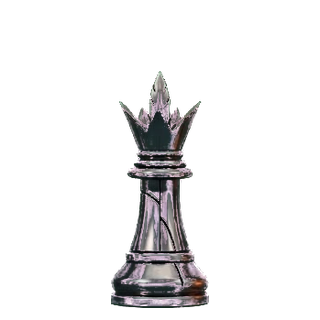
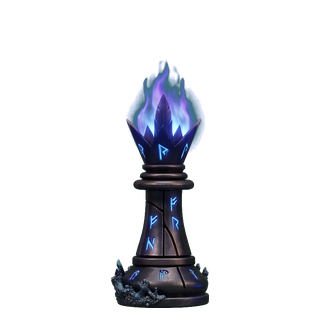
Black gets its own design: steel, runes, cold fire
The black pieces come from a separate sheet and are no longer the copper set
in another colour. Warm flame against cold violet, which is a stronger reading
of two sides than light wood against dark wood ever was.

That separation is what the cutter had to learn. It now takes one sheet at a
time and is told what each row is -- `w`, `b`, or skip -- because this sheet
offers two alternative designs and only the second is wanted. And it is told
how tall that row's tallest piece should end up, rather than deriving it:
with the sides coming from different images, nothing inside either one can
say how big it should be relative to the other. White fills the square at 296,
black stands at 266.

The background colour is now read off the sheet's own corners instead of being
written down. The two sheets came back on different greens -- (50,90,63) and
(59,115,75) -- and a hard-coded value keys out nothing at all, which produces
twelve opaque squares that look perfectly fine until they reach a board.

One thing left as drawn and worth knowing: the black pawn is half its king
where white's is three quarters of its own. The sheets disagree there and the
disagreement is visible on the board.

The white sheet is still the 1024-wide JPEG and is being enlarged into place
while black is being reduced. White is the softer of the two now, and
regenerating it at the black sheet's size is the outstanding job.

Claude-Session: https://claude.ai/code/session_01LiXZnuzu6WQwHSooUohDJq

Changed region(s): [[0.3438, 0.1875, 0.6562, 0.9688]]

diff --git a/assets/board/recorta_pecas.py b/assets/board/recorta_pecas.py
@@ -1,94 +1,143 @@
 #!/usr/bin/env python3
-"""Cut the twelve pieces out of the generated sheet, onto transparent squares.
+"""Cut chess pieces out of a generated sheet, onto transparent squares.
 
-The sheet is a single image: two rows of six on a flat green, with a caption
-under each. What comes out is what the board actually loads -- 320x320 RGBA,
+A sheet is one image: rows of six pieces on a flat colour, in the order
+K Q R B N P. What comes out is what the board actually loads -- 320x320 RGBA,
 one file per piece.
+
+    python3 recorta_pecas.py <folha> <destino> <bandas> [altura_max]
+
+`bandas` says what each row of the sheet is, top to bottom, comma separated:
+`w` white, `b` black, `-` skip. So `w,b` takes both rows of one sheet, and
+`-,b` takes only the second row and leaves the first alone -- which is what a
+sheet offering two alternatives needs.
+
+`altura_max` is how tall the tallest piece of that row ends up, in pixels of
+the 320 canvas. It is given rather than derived because the two sides can come
+from DIFFERENT sheets, and then nothing inside one sheet can say how big it
+should be relative to the other. White fills the square at 296; black is
+deliberately smaller, at 266.
 """
 from PIL import Image
 import numpy as np
-import sys, os
+import sys
+import os
 
-ORIGEM = sys.argv[1] if len(sys.argv) > 1 else 'pecas_src.jpeg'
-DESTINO = sys.argv[2] if len(sys.argv) > 2 else 'pecas_novas'
-os.makedirs(DESTINO, exist_ok=True)
-
-a = np.asarray(Image.open(ORIGEM).convert('RGB')).astype(np.float32)
-FUNDO = np.array([50.0, 90.0, 63.0])
-
-# Um pixel de borda e' a peca misturada com o verde do fundo. A cobertura sai da
-# distancia a essa cor, e a cor tem de ser DESMISTURADA a seguir -- sem isso
-# cada peca fica com uma auréola esverdeada assim que assentar num tabuleiro,
-# que e' precisamente onde vai assentar.
-dist = np.linalg.norm(a - FUNDO[None, None, :], axis=2)
-alpha = np.clip((dist - 18.0) / 34.0, 0, 1)
-alpha[alpha < 0.10] = 0.0
-seguro = np.maximum(alpha, 0.03)[:, :, None]
-puro = np.clip((a - FUNDO[None, None, :] * (1 - alpha[:, :, None])) / seguro, 0, 255)
-rgba = np.dstack([puro, alpha * 255]).astype(np.uint8)
-
-# Bandas MEDIDAS do perfil de linhas com conteudo, nao adivinhadas. As chamas
-# sobem muito acima do corpo: um recorte apertado corta-as, e um rei sem coroa
-# so' se ve depois de estar publicado.
 NOMES = ["K", "Q", "R", "B", "N", "P"]
-FILAS = {"w": (115, 340), "b": (400, 700)}
+LADO = 320
+MARGEM = 12
 
-m = alpha > 0.35
-def colunas(y0, y1):
+
+def carrega(caminho):
+    """The sheet, and the background colour read off its own corners.
+
+    Measured, not written down: two sheets from the same generator came back
+    on different greens -- (50,90,63) and (59,117,76) -- and a hard-coded
+    colour keys out nothing at all, producing twelve opaque squares that look
+    fine until they reach a board.
+    """
+    a = np.asarray(Image.open(caminho).convert("RGB")).astype(np.float32)
+    cantos = [a[3, 3], a[3, -4], a[-4, 3], a[-4, -4]]
+    return a, np.median(np.stack(cantos), axis=0)
+
+
+def alfa(a, fundo):
+    """Coverage per pixel, with the background un-mixed out of the edges.
+
+    An edge pixel is the piece blended with the sheet behind it. Recovering
+    coverage is the easy half; un-mixing the colour is the half that matters,
+    because an edge left part-background wears a halo of that background the
+    moment it lands on a board -- which is exactly where it lands.
+    """
+    dist = np.linalg.norm(a - fundo[None, None, :], axis=2)
+    al = np.clip((dist - 18.0) / 34.0, 0, 1)
+    al[al < 0.10] = 0.0
+    seguro = np.maximum(al, 0.03)[:, :, None]
+    puro = np.clip((a - fundo[None, None, :] * (1 - al[:, :, None])) / seguro, 0, 255)
+    return al, np.dstack([puro, al * 255]).astype(np.uint8)
+
+
+def bandas_de(m, minimo=40):
+    """Rows holding pieces, found from the sheet's own row profile.
+
+    Measured rather than guessed. Flames and crests rise well above the
+    bodies, hand-written bands came out fifteen pixels too tight, and a
+    beheaded king is the kind of thing only visible once it is published.
+    """
+    linhas = m.sum(axis=1)
+    bs, ini = [], None
+    for y, v in enumerate(linhas):
+        if v > 3 and ini is None:
+            ini = y
+        elif v <= 3 and ini is not None:
+            if y - ini > minimo:
+                bs.append((ini, y))
+            ini = None
+    if ini is not None and len(linhas) - ini > minimo:
+        bs.append((ini, len(linhas)))
+    return bs
+
+
+def colunas_de(m, y0, y1):
     col = m[y0:y1].sum(axis=0)
     gs, ini = [], None
     for x, v in enumerate(col):
-        if v > 3 and ini is None: ini = x
+        if v > 3 and ini is None:
+            ini = x
         elif v <= 3 and ini is not None:
-            if x - ini > 30: gs.append((ini, x))
+            if x - ini > 30:
+                gs.append((ini, x))
             ini = None
-    if ini is not None: gs.append((ini, len(col)))
+    if ini is not None:
+        gs.append((ini, len(col)))
     return gs
 
-rec = {}
-for cor, (y0, y1) in FILAS.items():
-    gs = colunas(y0, y1)
-    if len(gs) != 6:
-        raise SystemExit(f"fila {cor}: encontrei {len(gs)} pecas, esperava 6")
-    for i, (x0, x1) in enumerate(gs):
-        sub = rgba[y0:y1, x0:x1]
-        ys, xs = np.nonzero(sub[:, :, 3] > 20)
-        rec[cor + NOMES[i]] = Image.fromarray(
-            sub[ys.min():ys.max() + 1, xs.min():xs.max() + 1], 'RGBA')
 
-LADO, MARGEM = 320, 12
-alvo = LADO - 2 * MARGEM
+def main():
+    if len(sys.argv) < 4:
+        raise SystemExit(__doc__)
+    folha, destino, spec = sys.argv[1], sys.argv[2], sys.argv[3].split(",")
+    alvo = int(sys.argv[4]) if len(sys.argv) > 4 else LADO - 2 * MARGEM
+    os.makedirs(destino, exist_ok=True)
 
-# Uma escala por LADO, e as brancas mandam.
-#
-# As brancas enchem o quadrado; as pretas ficam um pouco abaixo. Nao e' para
-# as igualar -- os dois lados sao desenhos diferentes de proposito, e as pretas
-# tem outro porte. E' para as brancas serem as imponentes, que e' o efeito
-# pretendido e que a folha de origem dava ao contrario: nela as pretas estavam
-# desenhadas 35% maiores, e uma escala global unica herdava isso.
-#
-# Dentro de cada lado nada e' normalizado: as alturas relativas entre pecas sao
-# exactamente as desenhadas.
-PROPORCAO_PRETAS = 0.90
+    a, fundo = carrega(folha)
+    al, rgba = alfa(a, fundo)
+    print(f"  fundo medido: {fundo.astype(int)}")
 
-escala = {}
-for cor in ("w", "b"):
-    mais_alta = max(rec[cor + n].size[1] for n in NOMES)
-    escala[cor] = alvo / mais_alta * (PROPORCAO_PRETAS if cor == "b" else 1.0)
+    bandas = bandas_de(al > 0.10)
+    if len(bandas) != len(spec):
+        raise SystemExit(f"a folha tem {len(bandas)} filas, a spec tem {len(spec)}: {bandas}")
 
-for nome, img in rec.items():
-    g = escala[nome[0]]
-    nw = max(1, round(img.size[0] * g))
-    nh = max(1, round(img.size[1] * g))
-    r = img.resize((nw, nh), Image.LANCZOS)
-    tela = Image.new('RGBA', (LADO, LADO), (0, 0, 0, 0))
-    # Centrada na horizontal e assente numa linha de base COMUM. A altura e' o
-    # que distingue as pecas de relance, e so' funciona se todas pousarem no
-    # mesmo sitio.
-    tela.alpha_composite(r, ((LADO - nw) // 2, LADO - MARGEM - nh))
-    tela.save(os.path.join(DESTINO, f'{nome}.png'))
+    m = al > 0.35
+    for (y0, y1), cor in zip(bandas, spec):
+        if cor == "-":
+            continue
+        gs = colunas_de(m, y0, y1)
+        if len(gs) != 6:
+            raise SystemExit(f"fila {cor}: encontrei {len(gs)} pecas, esperava 6")
+        rec = {}
+        for i, (x0, x1) in enumerate(gs):
+            sub = rgba[y0:y1, x0:x1]
+            ys, xs = np.nonzero(sub[:, :, 3] > 20)
+            rec[NOMES[i]] = Image.fromarray(
+                sub[ys.min():ys.max() + 1, xs.min():xs.max() + 1], "RGBA")
 
-print("  alturas finais (px de 320):")
-for cor in ("w", "b"):
-    hs = {n: round(rec[cor + n].size[1] * escala[cor]) for n in NOMES}
-    print(f"    {cor}: " + "  ".join(f"{n}={hs[n]:3d}" for n in NOMES))
+        # One scale for the whole row. Nothing is normalised piece by piece:
+        # relative height between pieces is exactly as drawn, and it is how a
+        # player tells a rook from a queen without looking twice. Fitting each
+        # piece to its own square would make the pawn as tall as the king.
+        g = alvo / max(im.size[1] for im in rec.values())
+        for nome, img in rec.items():
+            nw = max(1, round(img.size[0] * g))
+            nh = max(1, round(img.size[1] * g))
+            r = img.resize((nw, nh), Image.LANCZOS)
+            tela = Image.new("RGBA", (LADO, LADO), (0, 0, 0, 0))
+            # Centred, and standing on a baseline shared by every piece.
+            tela.alpha_composite(r, ((LADO - nw) // 2, LADO - MARGEM - nh))
+            tela.save(os.path.join(destino, f"{cor}{nome}.png"))
+        hs = {n: round(rec[n].size[1] * g) for n in NOMES}
+        print(f"  {cor}: " + "  ".join(f"{n}={hs[n]:3d}" for n in NOMES))
+
+
+if __name__ == "__main__":
+    main()

diff --git a/assets/board/README.md b/assets/board/README.md
@@ -8,41 +8,45 @@ browser will actually load.
 
 `wK wQ wR wB wN wP` and the same with `b`. PNG with an alpha channel, 320x320.
 
-Copper and fire against blackened steel, to match the falcon in `assets/`. The
-knight is a bird of prey rather than a horse: Kestrel is a falcon.
+Copper and warm flame for white; blackened steel and cold violet fire, with
+runes, for black. The knight is a bird of prey rather than a horse: Kestrel is
+a falcon.
 
-**The two sides are not the same shapes in another colour**, and white is the
-imposing one. The white pieces fill the square; black stands at 90% of that.
-That is a choice, and it is the reverse of what the source sheet gives: there
-the black pieces are drawn 35% LARGER, so a single scale for all twelve
-inherits it and the wrong side dominates the board.
+**The two sides are not one set in two colours** -- they are separate designs,
+from separate sheets, and white is the imposing one. White fills the square at
+296 pixels; black stands at 266, nine tenths of that. That ratio is a choice
+and it has to be stated, because with the sides coming from different sheets
+there is nothing inside either one that could imply it.
 
 Within each side nothing is normalised. Relative heights between pieces are
-exactly as drawn -- the art was made to fill the square, and the flames count
-toward height, which is why the rook stands close to the queen.
-
-One baseline for all twelve. Nothing is fitted to its own square individually:
-relative height is how a player tells a rook from a queen without looking
-twice, and per-piece fitting would make the pawn as tall as the king.
+exactly as drawn, flames and crests included, which is why the rook stands
+close to the queen. One baseline for all twelve. Nothing is fitted to its own
+square individually: relative height is how a player tells a rook from a queen
+without looking twice, and per-piece fitting would make the pawn as tall as
+the king.
 
 Heights as shipped, in pixels of the 320 canvas:
 
 | | K | Q | R | B | N | P |
 |---|---|---|---|---|---|---|
 | white | 296 | 252 | 289 | 252 | 281 | 219 |
-| black | 266 | 237 | 213 | 199 | 221 | 146 |
+| black | 266 | 250 | 227 | 219 | 235 | 132 |
 
-The ratio between the sides is one constant, `PROPORCAO_PRETAS` in
-`recorta_pecas.py`.
+The black pawn is the one place the two sheets disagree sharply: it is drawn at
+half its king where white's is at three quarters. Left as drawn.
 
 ## Rebuilding them
 
-`pecas-fonte.jpeg` is the generated sheet -- twelve pieces on flat green, two
-rows of six. `recorta_pecas.py` turns it into the twelve files:
+Two sheets, because the sides were generated separately:
 
 ```
-python3 recorta_pecas.py pecas-fonte.jpeg .
+python3 recorta_pecas.py pecas-fonte.jpeg  . "w,-"  296   # brancas: 1a fila
+python3 recorta_pecas.py pretas-fonte.png  . "-,b"  266   # pretas:  2a fila
 ```
+
+The third argument says what each row of the sheet is, top to bottom -- `w`,
+`b`, or `-` to skip. `pretas-fonte.png` offers two alternative designs and only
+the second is used. The fourth is how tall that row's tallest piece ends up.
 
 Two things in there are worth knowing before changing it. The row bands are
 **measured** from the image's own row profile rather than guessed, because the
@@ -51,9 +55,10 @@ only visible once it is published. And the green is un-mixed from the edge
 pixels rather than merely keyed out: skip that and every piece carries a green
 halo the moment it lands on a board, which is exactly where it lands.
 
-The source is a 1024-wide JPEG, so each piece is about 150 pixels across before
-being scaled up. They are softer than a natively-drawn set at this size would
-be.
+The black sheet is 2400x1792 PNG, so its pieces are reduced into place. The
+white one is a 1024-wide JPEG and is being enlarged -- about 150 pixels across
+before scaling to 320 -- and is visibly softer. Regenerating white at the same
+size as black is the outstanding job here.
 
 ## The squares
 
